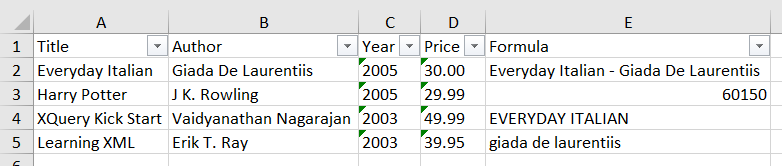
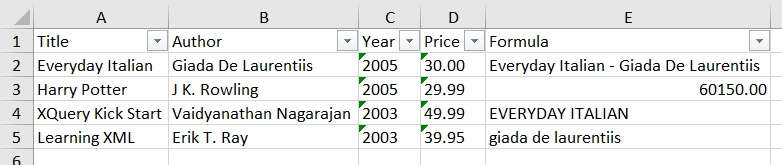
Updated the formula example

Changed region(s): [[0.0, 0.0606, 1.0, 1.0], [0.0307, 0.0606, 0.0614, 0.1212], [0.798, 0.0606, 0.8286, 0.0909]]

diff --git a/README.md b/README.md
@@ -44,7 +44,7 @@ XPath|Description
 /workbook/styles/style/font/strikeout|Optional. An empty element used as a flag to indicate if the font should have the strikeout styling applied.
 /workbook/styles/style/wrap|Optional. An empty element used as a flag to indicate text wrapping should be applied to the cell. If a cell contains newline characters represented as "\n" then this flag must be included for the newlines to be properly displayed.
 /workbook/styles/style/format|Optional. Used to define the data type and pattern format applied to the cell.
-/workbook/styles/style/format/@type|Mandatory. Used to specify the data type. Possible values include "currency", "date", "datetime", "float", "fraction", "int", "percent", "scientific" and "string". Note: when a cell uses the format "date" the XML value must be in the format "yyyy-MM-dd". When a cell uses the format "datetime" the XML value must be in the format "yyyy-MM-dd hh:mm:ss".
+/workbook/styles/style/format/@type|Mandatory. Used to specify the data type. Possible values include "currency", "date", "datetime", "float", "fraction", "general", "int", "percent", "scientific" and "string". Note: when a cell uses the format "date" the XML value must be in the format "yyyy-MM-dd". When a cell uses the format "datetime" the XML value must be in the format "yyyy-MM-dd hh:mm:ss".
 /workbook/styles/style/format/@formula|Optional. Used to indicate if the cell value should be treated as a formula. Possible values include "true" or "false".
 /workbook/styles/style/format/@pattern|Optional. If @type is specified as a "currency", "date", "datetime" or "percent" then this attribute can be used to define a custom Excel pattern (e.g. "dd/MM/yyyy"). If the pattern is not included then it will default to the Excel default format.
 /workbook/styles/style/format/@separator|Optional. If @type is specified as a "float" or "int" then this attribute can be set to "true" to include the thousands separator.
@@ -176,8 +176,11 @@ XPath|Description
 ```
 <workbook>
 	<styles>
-		<style name="myFormula">
-			<format type="formula"/>
+		<style name="myStringFormula">
+			<format type="string" formula="true"/>
+		</style>
+		<style name="myFloatFormula">
+			<format type="float" formula="true"/>
 		</style>
 	</styles>
 	<worksheet name="Books" autofilter="true">
@@ -193,28 +196,28 @@ XPath|Description
 			<cell>Giada De Laurentiis</cell>
 			<cell>2005</cell>
 			<cell>30.00</cell>
-			<cell style="myFormula">A2&amp;" - "&amp;B2</cell>
+			<cell style="myStringFormula">A2&amp;" - "&amp;B2</cell>
 		</row>
 		<row>
 			<cell>Harry Potter</cell>
 			<cell>J K. Rowling</cell>
 			<cell>2005</cell>
 			<cell>29.99</cell>
-			<cell style="myFormula">C2 * D2</cell>
+			<cell style="myFloatFormula">C2 * D2</cell>
 		</row>
 		<row>
 			<cell>XQuery Kick Start</cell>
 			<cell>Vaidyanathan Nagarajan</cell>
 			<cell>2003</cell>
 			<cell>49.99</cell>
-			<cell style="myFormula">upper(A2)</cell>
+			<cell style="myStringFormula">upper(A2)</cell>
 		</row>
 		<row>
 			<cell>Learning XML</cell>
 			<cell>Erik T. Ray</cell>
 			<cell>2003</cell>
 			<cell>39.95</cell>
-			<cell style="myFormula">lower(B2)</cell>
+			<cell style="myStringFormula">lower(B2)</cell>
 		</row>
 	</worksheet>
 </workbook>
